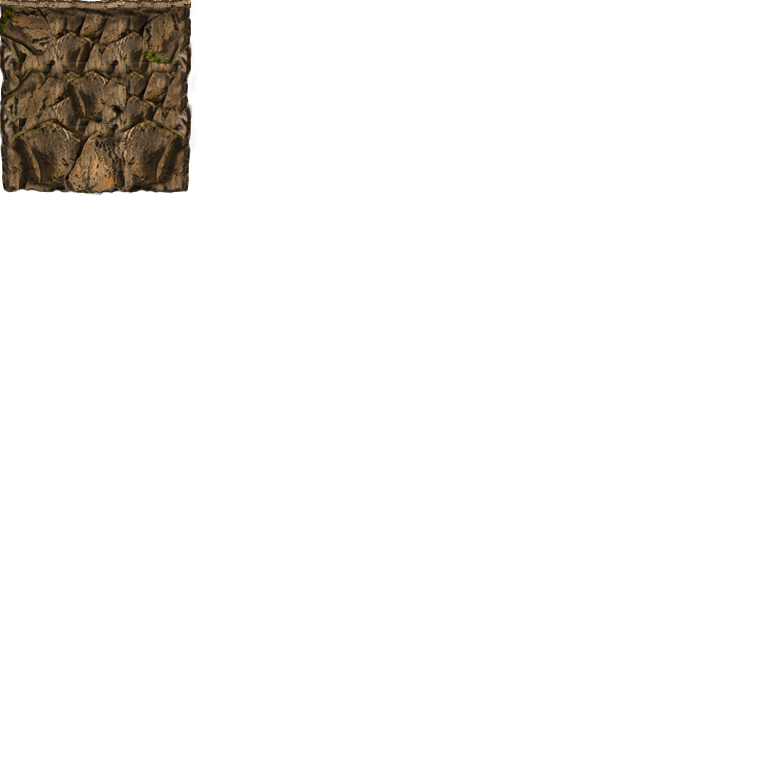
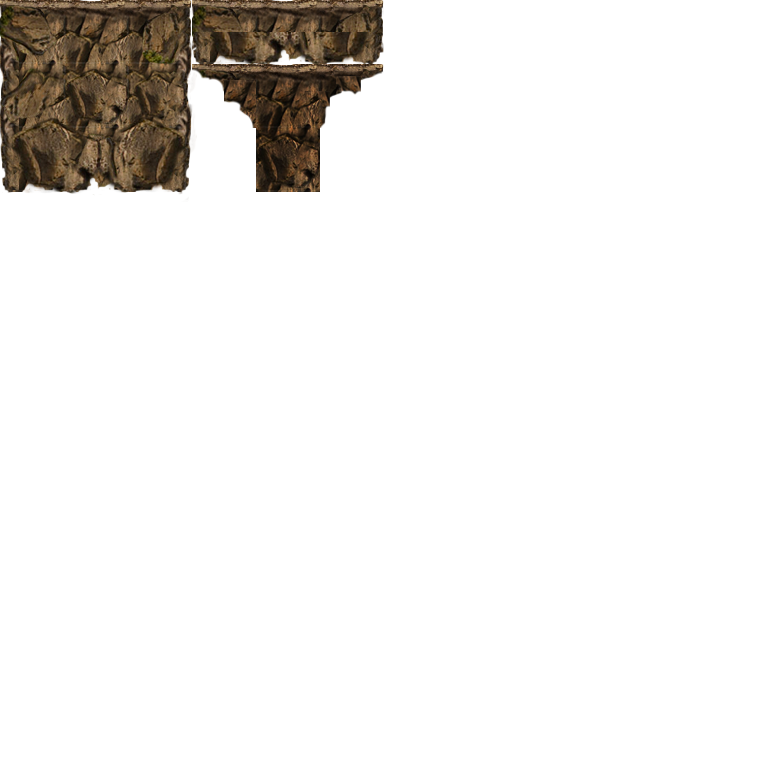
more tiles

Changed region(s): [[0.1562, 0.0, 0.5, 0.25], [0.0, 0.1562, 0.25, 0.25]]

diff --git a/level.js b/level.js
@@ -101,6 +101,42 @@ function level(level,img){
 					this.map[y][x] = t;
 					this.collisionObjects.push(t);
 				}
+				else if(this.mapGrid[y][x] === 'q'){
+					//single left
+					var t = new tile(x * this.tileW, y * this.tileH, this.tileW, this.tileH, false, true, image, this.tileW * 3, 0);
+					this.map[y][x] = t;
+					this.collisionObjects.push(t);
+				}
+				else if(this.mapGrid[y][x] === 'w'){
+					//single middle
+					var t = new tile(x * this.tileW, y * this.tileH, this.tileW, this.tileH, false, true, image, this.tileW * 4, 0);
+					this.map[y][x] = t;
+					this.collisionObjects.push(t);
+				}
+				else if(this.mapGrid[y][x] === 'r'){
+					//single right
+					var t = new tile(x * this.tileW, y * this.tileH, this.tileW, this.tileH, false, true, image, this.tileW * 3, 0);
+					this.map[y][x] = t;
+					this.collisionObjects.push(t);
+				}
+				else if(this.mapGrid[y][x] === 't'){
+					//single right
+					var t = new tile(x * this.tileW, y * this.tileH, this.tileW, this.tileH, false, true, image, this.tileW * 3, this.tileH);
+					this.map[y][x] = t;
+					this.collisionObjects.push(t);
+				}
+				else if(this.mapGrid[y][x] === 'y'){
+					//single right
+					var t = new tile(x * this.tileW, y * this.tileH, this.tileW, this.tileH, false, true, image, this.tileW * 4, this.tileH);
+					this.map[y][x] = t;
+					this.collisionObjects.push(t);
+				}
+				else if(this.mapGrid[y][x] === 'u'){
+					//back right
+					var t = new tile(x * this.tileW, y * this.tileH, this.tileW, this.tileH, false, true, image, this.tileW * 5, this.tileH);
+					this.map[y][x] = t;
+					this.collisionObjects.push(t);
+				}
 				else if (this.mapGrid[y][x] === 'e'){
 					var e = new spawner(x * this.tileW, y * this.tileH, 'spawn');
 					this.map[y][x] = e;
@@ -126,6 +162,16 @@ function level(level,img){
 var e = 'e'; // represent enemy
 var s = 's'; //level start
 var f = 'f'; //level finish
+// 0 - 9 represent main blocks
+// alt blocks
+var q = 'q';
+var w = 'w';
+var r = 'r'
+
+//background blocks
+var t = 't';
+var y = 'y';
+var u = 'u';
 var mapGrids = {
 	//arrays representing the level layout
 	1:[
@@ -133,14 +179,14 @@ var mapGrids = {
 		[0,0,0,0,0,0,0,0,0,0,0,0,0,0,0,0,0,0,0,0,0,0,0,0,0,0,0,0,0,0,0,0,0,0,0,0,0,0,0,0,0,0,0,0,0,0,0,0,0,0,0,0,0,0,0,0,0,0,0],
 		[0,0,0,0,0,0,0,0,0,0,0,0,0,0,0,0,0,0,0,0,0,0,0,0,0,0,0,0,0,0,0,0,0,0,0,0,0,0,0,0,0,0,0,0,0,0,0,0,0,0,0,0,0,0,0,0,0,0,0],
 		[0,0,0,0,0,0,0,0,0,0,0,0,0,0,0,0,0,0,0,0,0,0,0,0,0,0,0,0,0,0,0,0,0,0,0,0,0,0,0,0,0,0,0,0,0,0,0,0,0,0,0,0,0,0,0,0,0,0,0],
-		[s,0,0,0,0,0,0,0,0,0,0,0,0,0,0,0,0,0,0,0,0,0,0,0,0,0,0,0,0,0,0,0,0,0,0,0,0,0,0,0,0,0,0,0,0,0,0,0,0,0,0,0,0,0,0,0,0,0,0],
-		[1,0,0,0,0,0,0,0,0,0,0,0,0,0,0,0,0,0,0,0,0,0,0,0,0,0,0,0,0,0,0,0,0,0,0,0,0,0,0,0,0,0,0,0,0,0,0,0,0,0,0,0,0,0,0,0,0,0,0],
+		[0,0,0,0,0,0,0,0,0,0,0,0,0,0,0,0,0,0,0,0,0,0,0,0,0,0,0,0,0,0,0,0,0,0,0,0,0,0,0,0,0,0,0,0,0,0,0,0,0,0,0,0,0,0,0,0,0,0,0],
+		[0,0,0,0,0,0,0,0,0,0,0,0,0,0,0,0,0,0,0,0,0,0,0,0,0,0,0,0,0,0,0,0,0,0,0,0,0,0,0,0,0,0,0,0,0,0,0,0,0,0,0,0,0,0,0,0,0,0,0],
 		[0,0,0,0,0,0,0,0,0,0,0,0,0,0,0,0,0,0,0,0,0,0,0,0,0,0,0,0,0,0,0,0,0,0,0,0,0,0,0,0,0,0,0,0,0,0,0,0,0,0,0,0,0,0,0,0,0,0,0],
 		[0,0,0,0,0,0,0,0,0,0,0,0,0,0,0,0,0,0,0,0,0,0,0,0,0,0,0,0,0,0,0,0,0,0,0,0,0,0,0,0,0,0,0,0,0,0,0,0,0,0,0,0,0,0,0,0,0,0,0],
 		[0,0,0,0,0,0,0,0,0,0,0,0,0,0,0,0,0,0,0,0,0,0,0,0,0,0,0,0,0,0,0,0,0,0,0,0,0,0,0,0,0,0,0,0,0,0,0,0,0,0,0,0,0,0,0,0,0,0,0],
 		[0,0,0,0,0,0,0,0,0,0,0,0,0,0,0,0,0,0,0,0,0,0,0,0,0,0,0,0,0,0,0,0,0,0,0,0,0,0,0,0,0,0,0,0,0,0,0,0,0,0,0,0,0,0,0,0,0,0,0],
 		[0,0,0,0,0,0,0,0,0,0,0,0,0,0,0,0,0,0,0,0,0,0,0,0,0,0,0,0,0,0,0,0,0,0,0,0,0,0,0,0,0,0,0,0,0,0,0,0,0,0,0,0,0,0,0,0,0,0,f],
-		[0,0,0,0,0,0,0,0,0,0,0,0,0,0,0,0,0,0,0,0,0,0,0,0,0,0,0,0,0,0,0,0,0,0,0,0,0,0,0,0,0,0,0,0,0,0,0,0,0,0,0,1,3,0,0,0,1,2,2],
+		[s,0,0,0,0,0,0,0,0,0,0,0,0,0,0,0,0,0,0,0,0,0,0,0,0,0,0,0,0,0,0,0,0,0,0,0,0,0,0,0,0,0,0,0,0,0,0,0,0,0,0,1,3,0,0,0,1,2,2],
 		[2,2,2,3,0,0,0,0,0,0,0,0,0,0,0,0,0,0,0,0,0,0,0,0,0,0,0,0,0,0,0,0,0,0,0,0,0,0,0,0,0,0,1,2,2,2,2,3,0,0,0,4,6,0,0,0,4,5,5],
 		[5,5,5,6,0,0,0,0,1,3,0,0,1,2,2,2,3,0,0,0,0,0,0,0,0,0,0,0,0,0,0,0,0,0,1,2,2,3,0,0,0,1,5,5,5,5,5,6,0,0,0,4,6,0,0,0,4,5,5],
 		[5,5,5,6,0,0,0,0,4,6,0,0,4,5,5,5,5,3,0,0,0,0,0,0,0,0,0,0,0,0,0,0,0,1,5,5,5,6,0,0,0,4,5,5,5,5,5,6,0,0,0,4,6,0,0,0,4,5,5],
@@ -154,15 +200,15 @@ var mapGrids = {
 		[0,0,0,0,0,0,0,0,0,0,0,0,0,0,0,0,0,0,0,0,0,0,0,0,0,0,0,0,0,0,0,0,0,0,0,0,0,0,0,0,0,0,0,0,0,0,0,0,0,0,0,0,0,0,0,0,0,0,0],
 		[0,0,0,0,0,0,0,0,0,0,0,0,0,0,0,0,0,0,0,0,0,0,0,0,0,0,0,0,0,0,0,0,0,0,0,0,0,0,0,0,0,0,0,0,0,0,0,0,0,0,0,0,0,0,0,0,0,0,0],
 		[0,0,0,0,0,0,0,0,0,0,0,0,0,0,0,0,0,0,0,0,0,0,0,0,0,0,0,0,0,0,0,0,0,0,0,0,0,0,0,0,0,0,0,0,0,0,0,0,0,0,0,0,0,0,0,0,0,0,0],
-		[0,0,0,0,0,0,0,0,0,0,0,0,0,0,0,0,0,0,0,0,0,0,0,0,0,0,0,0,0,0,0,0,0,0,0,0,0,0,0,0,0,0,0,0,0,0,0,0,0,0,0,0,0,0,0,0,0,0,0],
-		[0,0,0,0,0,0,0,0,0,0,0,0,0,0,0,0,0,0,0,0,0,0,0,0,0,0,0,0,0,0,0,0,0,0,0,0,0,0,0,0,0,0,0,0,0,0,0,0,0,0,0,0,0,0,0,0,0,0,0],
-		[0,0,0,0,0,0,0,0,0,0,0,0,0,0,0,0,0,0,0,0,0,0,0,0,0,0,0,0,0,0,0,0,0,0,0,0,0,0,0,0,0,0,0,0,0,0,0,0,0,0,0,0,0,0,0,0,0,0,0],
-		[0,0,0,0,0,0,0,0,0,0,0,0,0,0,0,0,0,0,0,0,0,0,0,0,0,0,0,0,0,0,0,0,0,0,0,0,0,0,0,0,0,0,0,0,0,0,0,0,0,0,0,0,0,0,0,0,0,0,f],
-		[0,s,0,0,0,0,0,0,0,0,0,0,0,0,0,0,0,0,0,0,0,0,0,1,3,0,0,0,0,0,0,0,0,0,0,0,0,0,0,0,0,0,0,0,0,0,0,0,0,0,0,1,3,5,5,5,1,2,2],
-		[2,2,3,0,0,0,0,0,0,0,0,0,0,0,0,0,0,0,0,1,2,2,2,5,5,6,0,0,0,0,0,0,0,0,0,0,0,0,0,0,0,1,2,2,2,2,2,3,5,5,5,4,6,0,0,0,4,5,5],
-		[5,5,6,0,0,0,0,0,0,0,0,0,1,2,2,3,0,0,5,5,0,4,5,6,0,5,5,0,0,0,0,0,0,0,1,2,2,3,0,0,5,4,5,5,5,5,5,6,0,0,0,4,6,0,0,0,4,5,5],
-		[5,5,5,5,5,5,5,5,5,5,5,5,5,5,5,5,5,5,5,5,5,5,5,5,5,5,5,5,5,5,5,5,5,5,5,5,5,5,5,5,5,5,5,5,5,5,5,5,5,5,5,5,5,5,5,5,5,5,5],
-		[5,5,6,0,0,6,0,0,0,0,0,0,0,4,5,6,0,0,0,0,0,0,0,0,0,0,0,0,0,0,0,0,0,4,5,5,5,6,0,0,0,4,5,5,5,5,5,6,0,0,0,4,6,0,0,0,4,5,5]
+		[0,0,0,0,0,0,0,0,0,0,0,0,0,1,3,0,0,0,0,1,3,0,0,0,0,0,0,0,0,0,0,0,0,0,0,0,0,0,0,0,0,0,0,0,0,0,0,0,0,0,0,0,0,0,0,0,0,0,0],
+		[0,0,0,0,0,0,1,2,3,0,0,0,0,0,0,0,0,0,0,0,0,0,0,0,1,3,0,0,0,0,0,0,0,0,0,0,0,0,0,0,0,0,0,0,0,0,0,0,0,0,0,0,0,0,0,0,0,0,0],
+		[0,0,0,0,0,0,0,7,8,3,0,0,0,0,0,0,0,0,0,0,0,0,0,0,4,6,0,0,0,0,0,0,0,0,0,0,0,0,0,0,0,0,0,0,0,0,0,0,0,0,0,0,0,0,0,0,0,0,0],
+		[0,0,0,0,0,0,0,0,0,0,0,0,0,t,w,u,0,0,0,0,0,0,0,0,4,8,3,0,0,0,0,0,0,0,0,0,0,0,0,0,0,0,0,0,0,0,0,0,0,0,0,0,0,0,0,0,0,0,f],
+		[0,s,0,0,0,0,0,0,0,0,0,0,0,0,0,0,0,0,0,0,1,2,3,0,4,5,8,0,0,0,0,0,0,0,0,0,0,0,0,0,0,0,0,0,0,0,0,0,0,0,0,1,3,5,5,5,1,2,2],
+		[2,2,3,0,0,0,0,0,0,0,0,0,0,0,0,0,0,0,0,1,2,5,6,0,4,6,8,0,0,0,0,0,0,0,0,0,0,0,0,0,0,1,2,2,2,2,2,3,5,5,5,4,6,0,0,0,4,5,5],
+		[5,5,6,0,0,0,0,0,0,0,0,0,t,2,2,3,0,0,1,5,8,5,6,0,4,5,5,0,0,0,0,0,0,0,1,2,2,3,0,0,5,4,5,5,5,5,5,6,0,0,0,4,6,0,0,0,4,5,5],
+		[5,5,5,2,2,2,2,u,0,0,0,0,0,5,5,5,0,0,4,5,5,8,6,0,4,5,5,5,5,5,5,5,5,5,5,5,5,5,5,5,5,5,5,5,5,5,5,5,5,5,5,5,5,5,5,5,5,5,5],
+		[5,5,5,5,5,5,6,0,0,0,0,0,0,4,5,8,0,0,7,8,8,8,6,0,4,8,8,5,5,5,8,5,8,5,5,5,5,6,0,0,0,4,5,5,5,5,5,6,0,0,0,4,6,0,0,0,4,5,5]
 	],
 	3:[	
 		[0,0,0,0,0,0,0,0,0,0,0,0,0,0,0,0,0,0,0,0,0,0,0,0,0,0,0,0,0,0,0,0,0,0,0,0,0,0,0,0,0,0,0,0,0,0,0,0,0,0,0,0,0,0,0,0,0,0,0],

diff --git a/collisionChecker.js b/collisionChecker.js
@@ -41,7 +41,7 @@ function collisionChecker(){
 				//this.y=objectChecking.y-this.height+1;
 				//this.imgY=objectChecking.y-this.height+1;
 				break;
-			}else if(this.check(ob1.bbd, objectChecking) && objectChecking.platform && ob1.bbd.y - ob1.velocityY * dt < objectChecking.y){
+			}else if(this.check(ob1.bbd, objectChecking) && objectChecking.platform && ob1.bbd.y - ob1.velocityY < objectChecking.y){
 				ob1.canMoveDown = false;
 				break;
 			}else{

diff --git a/camera.js b/camera.js
@@ -13,7 +13,7 @@ function camera(x, y, c, canvas){
 	//Update the cameras position
 	this.update = function(dt, focus, map){
 		//focus the camera on the player
-		if(focus.x > 4 * 64 && focus.x < map[0].length * 64 - this.width + 6 * 64){
+		if(focus.x > 4 * 64 && focus.x < map[0].length * 64 - this.width + 4 * 64){
 			this.x = focus.x - 4 * 64;
 		}
 		

diff --git a/ai.js b/ai.js
@@ -40,7 +40,7 @@ function ai(){
 				}
 			}
 		}
-		else if(this.target.x > obj.x + object.width * 2 && object.x - this.target.x > 0 - this.attackDistance){
+		else if(this.target.x > obj.x && object.x - this.target.x > 0 - this.attackDistance){
 			object.velocityX += object.acceleration;
 			//aoe check for holes
 			var aoe1 = {

diff --git a/game.js b/game.js
@@ -36,7 +36,7 @@ function game(){
 		this.playerImg.src = 'img/watercolor.png';
 		this.enemyImg.src = 'img/samurai.png';
 		
-		this.levelNum = 1;
+		this.levelNum = 2;
 		this.levelMap = new level(this.levelNum, this.tiles);
 
 		//initialise components
